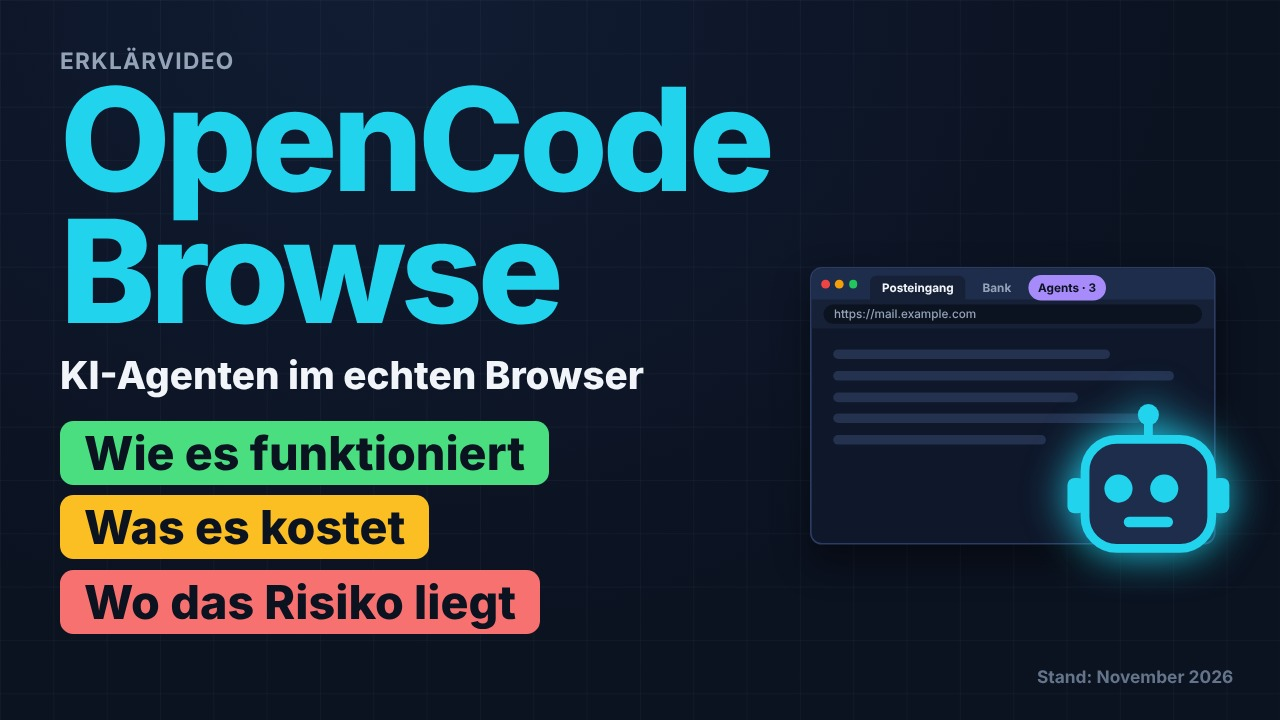
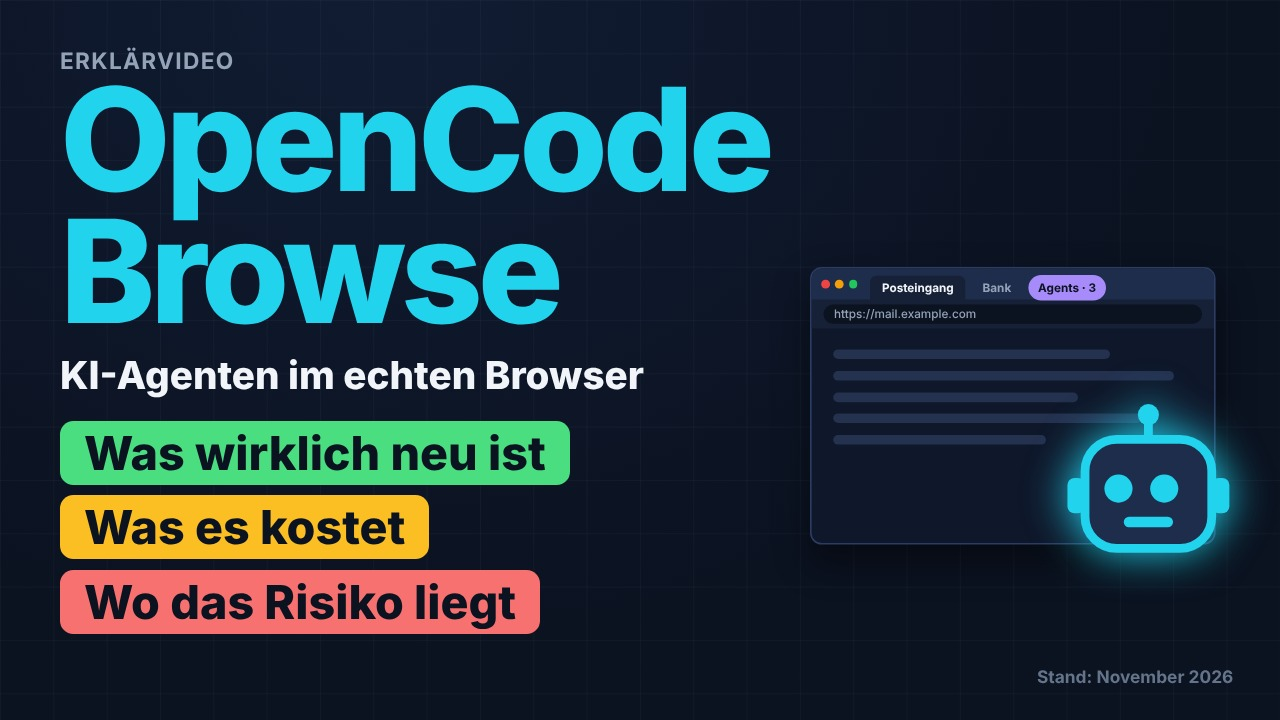
OpenCode Browse: „Was wirklich neu ist“ auf Seite, Vorschaubild, Untertitel, Zeiten; CLAUDE.md: Neuheits-Check (Video folgt)
Claude-Session: https://claude.ai/code/session_01LHRCLpvnPp4GTmKTZVPGfL

Changed region(s): [[0.0938, 0.5806, 0.4688, 0.6722]]

diff --git a/opencode-browse/index.html b/opencode-browse/index.html
@@ -11,7 +11,7 @@
 <main>
   <p class="zurueck"><a href="../">← Alle Videos</a></p>
   <h1>OpenCode Browse: KI-Agenten im echten Browser</h1>
-  <p class="meta">Erklärvideo · 7:56 min · Stand 8. November 2026</p>
+  <p class="meta">Erklärvideo · 8:08 min · Stand 8. November 2026</p>
 
   <video id="video" controls playsinline preload="metadata" poster="poster.jpg">
     <source src="video.mp4" type="video/mp4">
@@ -26,24 +26,24 @@
   </div>
 
   <p>Mit OpenCode Browse benutzen KI-Agenten deinen echten, eingeloggten Browser: deine Tabs, deine Logins.
-  Das Video erklärt, wie das technisch funktioniert, wie es sich von Claude in Chrome unterscheidet, was es wirklich kostet
-  und warum Prompt Injection das größte Risiko ist.</p>
+  Das Video klärt, was daran wirklich neu ist, wie es funktioniert, wie es sich von Claude in Chrome unterscheidet,
+  was es wirklich kostet und warum Prompt Injection das größte Risiko ist.</p>
 
   <h2>Kapitel</h2>
   <ol class="kapitel">
     <li><button data-t="0">0:00</button> Das Problem: die Login-Wand</li>
-    <li><button data-t="28">0:28</button> Die Lösung: OpenCode Browse</li>
-    <li><button data-t="64">1:04</button> So kommt der Agent in deinen Browser</li>
+    <li><button data-t="29">0:29</button> Die Lösung: OpenCode Browse</li>
+    <li><button data-t="65">1:05</button> So kommt der Agent in deinen Browser</li>
     <li><button data-t="106">1:46</button> Im Hintergrund, mit Übergabe an dich</li>
     <li><button data-t="140">2:20</button> Passwörter, ohne dass der Agent sie sieht</li>
-    <li><button data-t="161">2:41</button> Jedes Modell, auch lokal: zwei Haken</li>
+    <li><button data-t="162">2:42</button> Jedes Modell, auch lokal: zwei Haken</li>
     <li><button data-t="215">3:35</button> Agent oder Werkzeug? Claude in Chrome im Vergleich</li>
     <li><button data-t="278">4:38</button> Datenschutz und Regeln</li>
     <li><button data-t="311">5:11</button> Das Risiko: Prompt Injection</li>
     <li><button data-t="353">5:53</button> Wie oft gelingt so ein Angriff?</li>
     <li><button data-t="383">6:23</button> Was OpenCode Browse selbst absichert</li>
     <li><button data-t="412">6:52</button> Zwei praktische Haken</li>
-    <li><button data-t="433">7:13</button> Faustregel und Fazit</li>
+    <li><button data-t="434">7:14</button> Faustregel, was wirklich neu ist, Fazit</li>
   </ol>
 
   <h2>Begriffe im Video</h2>
@@ -54,7 +54,7 @@
     <div><dt><button data-t="60">1:00</button> Claude Code</dt><dd>Anthropics Coding-Agent für die Kommandozeile (Terminal)</dd></div>
     <div><dt><button data-t="77">1:17</button> MCP</dt><dd>Model Context Protocol: offener Standard, über den KI-Agenten Werkzeuge anschließen</dd></div>
     <div><dt><button data-t="87">1:27</button> Relay</dt><dd>Vermittlungsstelle auf deinem Rechner, die Befehle an den Browser weiterreicht</dd></div>
-    <div><dt><button data-t="130">2:10</button> Captcha</dt><dd>Test, ob ein Mensch vor dem Bildschirm sitzt, z. B. Bilder anklicken</dd></div>
+    <div><dt><button data-t="131">2:11</button> Captcha</dt><dd>Test, ob ein Mensch vor dem Bildschirm sitzt, z. B. Bilder anklicken</dd></div>
     <div><dt><button data-t="155">2:35</button> Zwei-Faktor-Anmeldung</dt><dd>Login mit Passwort plus Einmalcode, z. B. aus einer Authenticator-App</dd></div>
     <div><dt><button data-t="172">2:52</button> Ollama</dt><dd>kostenloses Programm, das KI-Modelle auf dem eigenen Rechner ausführt</dd></div>
     <div><dt><button data-t="182">3:02</button> Token</dt><dd>Wortstück: KI-Modelle zählen Text und Kosten in Tokens</dd></div>
@@ -62,7 +62,7 @@
     <div><dt><button data-t="245">4:05</button> API-Schlüssel</dt><dd>Zugang zu einem KI-Modell per Programm: bezahlt wird nach Verbrauch statt per Abo</dd></div>
     <div><dt><button data-t="264">4:24</button> Playwright MCP, Chrome DevTools MCP</dt><dd>kostenlose Werkzeuge von Microsoft und Google, mit denen KI-Agenten Browser steuern</dd></div>
     <div><dt><button data-t="328">5:28</button> Prompt Injection</dt><dd>versteckte Anweisungen in Texten oder Webseiten, die eine KI befolgt, obwohl du sie nicht gegeben hast</dd></div>
-    <div><dt><button data-t="438">7:18</button> Browserprofil</dt><dd>getrennter Bereich im Browser mit eigenen Logins, Cookies und Lesezeichen</dd></div>
+    <div><dt><button data-t="439">7:19</button> Browserprofil</dt><dd>getrennter Bereich im Browser mit eigenen Logins, Cookies und Lesezeichen</dd></div>
   </dl>
 
   <h2>Quellen</h2>
@@ -86,7 +86,7 @@
 </main>
 <script>
   const v = document.getElementById('video');
-  const BEGRIFFE = [{"t": 26.44, "b": "Cookies", "e": "Mini-Dateien, mit denen Webseiten dich wiedererkennen und eingeloggt halten"}, {"t": 36.0, "b": "Coding-Agent", "e": "KI, die selbstständig programmiert, z. B. OpenCode, Claude Code, Codex"}, {"t": 48.64, "b": "Open Source", "e": "Software mit öffentlichem Quellcode: jeder kann sie prüfen und nutzen"}, {"t": 60.08, "b": "Claude Code", "e": "Anthropics Coding-Agent für die Kommandozeile (Terminal)"}, {"t": 77.38, "b": "MCP", "e": "Model Context Protocol: offener Standard, über den KI-Agenten Werkzeuge anschließen"}, {"t": 87.5, "b": "Relay", "e": "Vermittlungsstelle auf deinem Rechner, die Befehle an den Browser weiterreicht"}, {"t": 130.92, "b": "Captcha", "e": "Test, ob ein Mensch vor dem Bildschirm sitzt, z. B. Bilder anklicken"}, {"t": 155.1, "b": "Zwei-Faktor-Anmeldung", "e": "Login mit Passwort plus Einmalcode, z. B. aus einer Authenticator-App"}, {"t": 172.26, "b": "Ollama", "e": "kostenloses Programm, das KI-Modelle auf dem eigenen Rechner ausführt"}, {"t": 182.58, "b": "Token", "e": "Wortstück: KI-Modelle zählen Text und Kosten in Tokens"}, {"t": 208.74, "b": "Tool-Aufruf", "e": "Befehl des Modells an ein Werkzeug, z. B. „klicke hier“ oder „lies die Seite“"}, {"t": 245.09, "b": "API-Schlüssel", "e": "Zugang zu einem KI-Modell per Programm: bezahlt wird nach Verbrauch statt per Abo"}, {"t": 264.45, "b": "Playwright MCP, Chrome DevTools MCP", "e": "kostenlose Werkzeuge von Microsoft und Google, mit denen KI-Agenten Browser steuern"}, {"t": 328.42, "b": "Prompt Injection", "e": "versteckte Anweisungen in Texten oder Webseiten, die eine KI befolgt, obwohl du sie nicht gegeben hast"}, {"t": 438.79, "b": "Browserprofil", "e": "getrennter Bereich im Browser mit eigenen Logins, Cookies und Lesezeichen"}];
+  const BEGRIFFE = [{"t": 26.67, "b": "Cookies", "e": "Mini-Dateien, mit denen Webseiten dich wiedererkennen und eingeloggt halten"}, {"t": 36.23, "b": "Coding-Agent", "e": "KI, die selbstständig programmiert, z. B. OpenCode, Claude Code, Codex"}, {"t": 48.87, "b": "Open Source", "e": "Software mit öffentlichem Quellcode: jeder kann sie prüfen und nutzen"}, {"t": 60.31, "b": "Claude Code", "e": "Anthropics Coding-Agent für die Kommandozeile (Terminal)"}, {"t": 77.61, "b": "MCP", "e": "Model Context Protocol: offener Standard, über den KI-Agenten Werkzeuge anschließen"}, {"t": 87.73, "b": "Relay", "e": "Vermittlungsstelle auf deinem Rechner, die Befehle an den Browser weiterreicht"}, {"t": 131.16, "b": "Captcha", "e": "Test, ob ein Mensch vor dem Bildschirm sitzt, z. B. Bilder anklicken"}, {"t": 155.33, "b": "Zwei-Faktor-Anmeldung", "e": "Login mit Passwort plus Einmalcode, z. B. aus einer Authenticator-App"}, {"t": 172.5, "b": "Ollama", "e": "kostenloses Programm, das KI-Modelle auf dem eigenen Rechner ausführt"}, {"t": 182.82, "b": "Token", "e": "Wortstück: KI-Modelle zählen Text und Kosten in Tokens"}, {"t": 208.98, "b": "Tool-Aufruf", "e": "Befehl des Modells an ein Werkzeug, z. B. „klicke hier“ oder „lies die Seite“"}, {"t": 245.32, "b": "API-Schlüssel", "e": "Zugang zu einem KI-Modell per Programm: bezahlt wird nach Verbrauch statt per Abo"}, {"t": 264.68, "b": "Playwright MCP, Chrome DevTools MCP", "e": "kostenlose Werkzeuge von Microsoft und Google, mit denen KI-Agenten Browser steuern"}, {"t": 328.66, "b": "Prompt Injection", "e": "versteckte Anweisungen in Texten oder Webseiten, die eine KI befolgt, obwohl du sie nicht gegeben hast"}, {"t": 439.1, "b": "Browserprofil", "e": "getrennter Bereich im Browser mit eigenen Logins, Cookies und Lesezeichen"}];
   const kasten = document.getElementById('begriff');
   const name = document.getElementById('begriff-name');
   const text = document.getElementById('begriff-text');

diff --git a/index.html b/index.html
@@ -17,8 +17,8 @@
       <img src="opencode-browse/poster.jpg" alt="Titelbild: OpenCode Browse" loading="lazy">
       <div>
         <h2>OpenCode Browse: KI-Agenten im echten Browser</h2>
-        <p class="meta">7:56 min · 8. November 2026</p>
-        <p>Was das kostenlose Werkzeug kann, wie es sich von Claude in Chrome unterscheidet und warum Prompt Injection das größte Risiko ist.</p>
+        <p class="meta">8:08 min · 8. November 2026</p>
+        <p>Was an dem kostenlosen Werkzeug wirklich neu ist, was es kostet und warum Prompt Injection das größte Risiko ist.</p>
       </div>
     </a>
   </div>

diff --git a/CLAUDE.md b/CLAUDE.md
@@ -23,5 +23,8 @@ Erklärvideos rund um KI-Werkzeuge, veröffentlicht über GitHub Pages (Zweig `m
 - **Kein leerer Bildschirm, während gesprochen wird:** spätestens 1 s nach Szenenbeginn steht etwas Inhaltliches im
   Bild (Platzhalter oder gedimmte Abschnitte sind in Ordnung).
 - **Ein Gedanke gleichzeitig:** nicht alle Elemente einer Szene stehen lassen; Altes ausblenden, wenn Neues kommt.
+- **Neuheits-Check vor jedem Video:** Erst klären, was am Thema wirklich neu ist (gegen bestehende Lösungen
+  recherchieren). Gibt es nichts Neues, kein Video machen oder im Video klar sagen „wenig neu“. Die Antwort gehört
+  ins Fazit und als Punkt auf die Titelkarte („Was wirklich neu ist“).
 - **Folgevideo:** Jedes Video darf ein neues anstoßen, das sich aus einer offenen Frage ergibt. Ideen in `IDEEN.md`.
 - Pro Folge eine frische Sitzung mit kurzer Übergabe statt einer endlos wachsenden Sitzung (Kosten).
